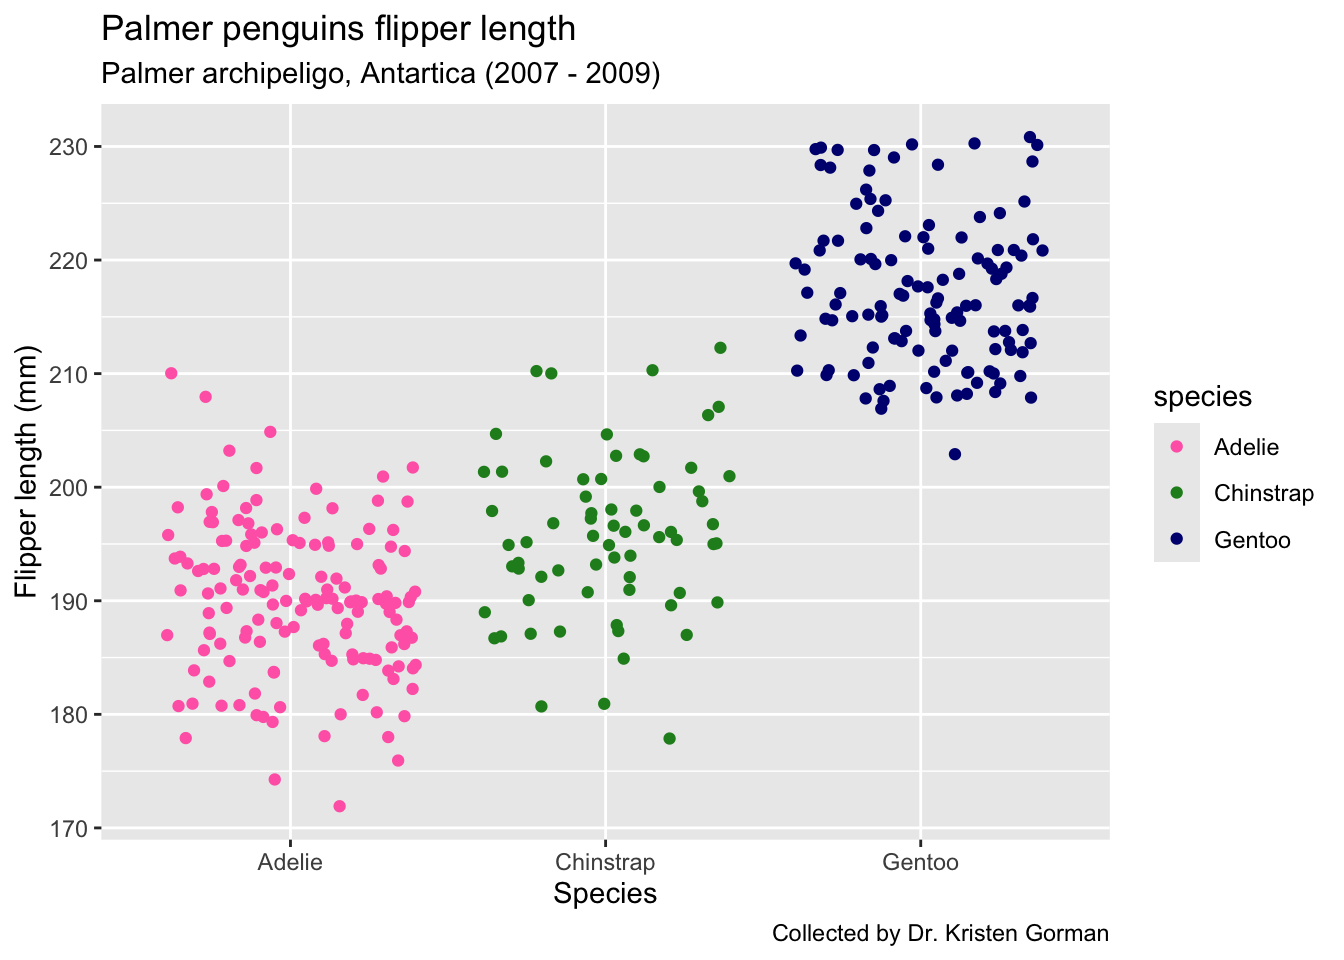
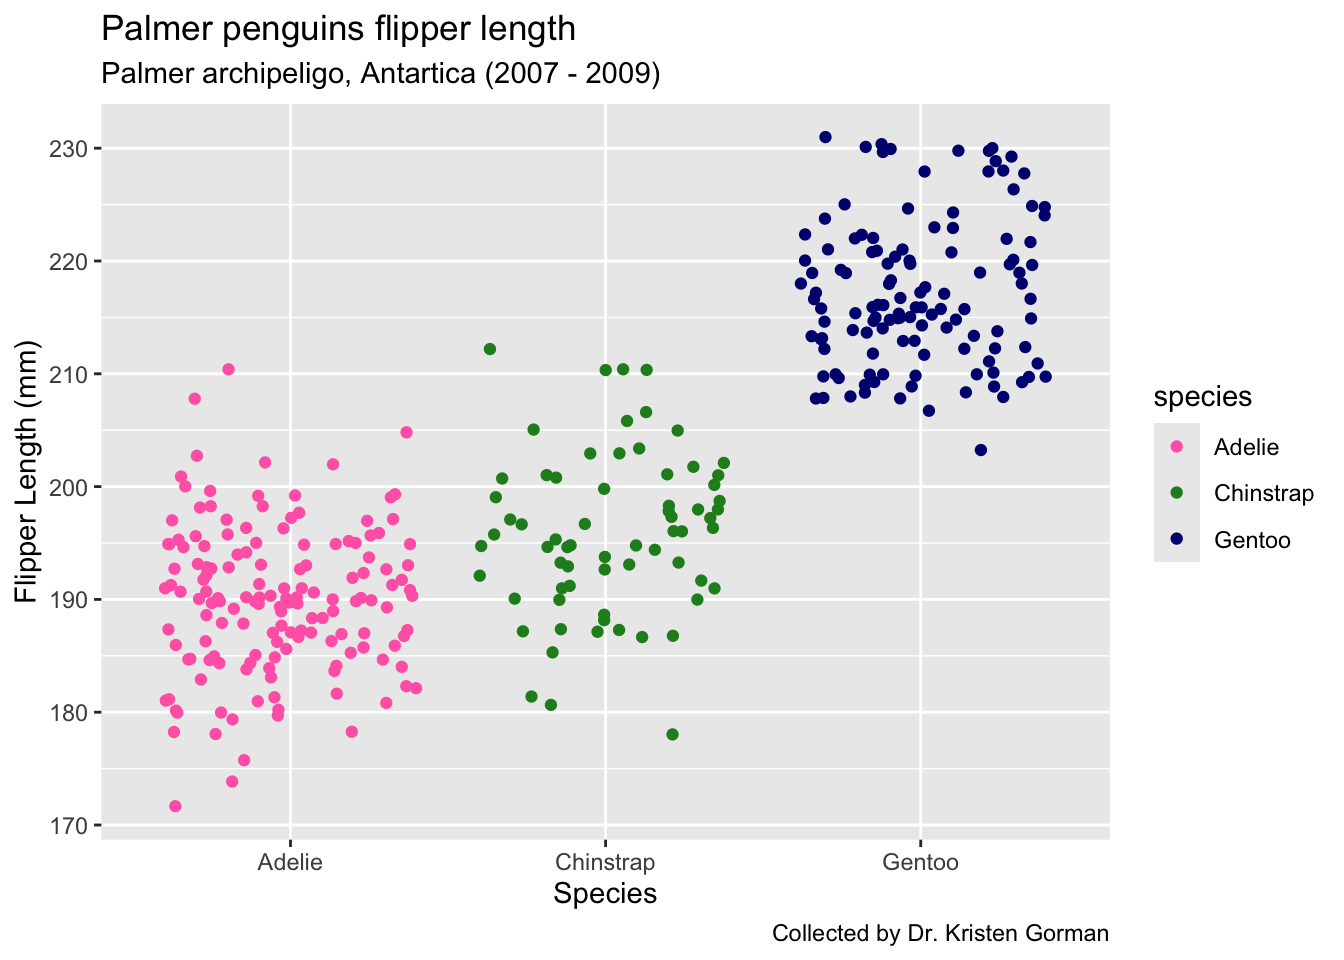
small changes 2

diff --git a/eds212_day2_activities.html b/eds212_day2_activities.html
@@ -145,8 +145,8 @@ Attaching package: 'palmerpenguins'</code></pre>
 <span id="cb8-4"><a href="#cb8-4" aria-hidden="true" tabindex="-1"></a><span class="fu">ggplot</span>( <span class="at">data =</span> penguins, <span class="fu">aes</span>(<span class="at">x =</span> bill_length_mm, <span class="at">y =</span> bill_depth_mm)) <span class="sc">+</span></span>
 <span id="cb8-5"><a href="#cb8-5" aria-hidden="true" tabindex="-1"></a>  <span class="fu">geom_point</span>(<span class="fu">aes</span>(<span class="at">color =</span> species)) <span class="sc">+</span></span>
 <span id="cb8-6"><a href="#cb8-6" aria-hidden="true" tabindex="-1"></a>  <span class="fu">scale_color_manual</span>(<span class="at">values =</span> <span class="fu">c</span>(<span class="st">"hotpink"</span>, <span class="st">"forestgreen"</span>, <span class="st">"navy"</span>)) <span class="sc">+</span></span>
-<span id="cb8-7"><a href="#cb8-7" aria-hidden="true" tabindex="-1"></a>  <span class="fu">labs</span>(<span class="at">x =</span> <span class="st">"Bill length (mm)"</span>,</span>
-<span id="cb8-8"><a href="#cb8-8" aria-hidden="true" tabindex="-1"></a>       <span class="at">y =</span> <span class="st">"Bill depth (mm)"</span>,</span>
+<span id="cb8-7"><a href="#cb8-7" aria-hidden="true" tabindex="-1"></a>  <span class="fu">labs</span>(<span class="at">x =</span> <span class="st">"Bill Length (mm)"</span>,</span>
+<span id="cb8-8"><a href="#cb8-8" aria-hidden="true" tabindex="-1"></a>       <span class="at">y =</span> <span class="st">"Bill Depth (mm)"</span>,</span>
 <span id="cb8-9"><a href="#cb8-9" aria-hidden="true" tabindex="-1"></a>       <span class="at">title =</span> <span class="st">"Palmer penguins bill depth and length"</span>,</span>
 <span id="cb8-10"><a href="#cb8-10" aria-hidden="true" tabindex="-1"></a>       <span class="at">subtitle =</span> <span class="st">"Palmer archipeligo, Antartica (2007 - 2009)"</span>,</span>
 <span id="cb8-11"><a href="#cb8-11" aria-hidden="true" tabindex="-1"></a>       <span class="at">caption =</span> <span class="st">"Collected by Dr. Kristen Gorman"</span>)</span></code><button title="Copy to Clipboard" class="code-copy-button"><i class="bi"></i></button></pre></div>
@@ -170,7 +170,7 @@ Attaching package: 'palmerpenguins'</code></pre>
 <span id="cb10-5"><a href="#cb10-5" aria-hidden="true" tabindex="-1"></a>  <span class="fu">geom_jitter</span>(<span class="fu">aes</span>(<span class="at">color =</span> species)) <span class="sc">+</span></span>
 <span id="cb10-6"><a href="#cb10-6" aria-hidden="true" tabindex="-1"></a>  <span class="fu">scale_color_manual</span>(<span class="at">values =</span> <span class="fu">c</span>(<span class="st">"hotpink"</span>, <span class="st">"forestgreen"</span>, <span class="st">"navy"</span>)) <span class="sc">+</span></span>
 <span id="cb10-7"><a href="#cb10-7" aria-hidden="true" tabindex="-1"></a>  <span class="fu">labs</span>(<span class="at">x =</span> <span class="st">"Species"</span>,</span>
-<span id="cb10-8"><a href="#cb10-8" aria-hidden="true" tabindex="-1"></a>       <span class="at">y =</span> <span class="st">"Flipper length (mm)"</span>,</span>
+<span id="cb10-8"><a href="#cb10-8" aria-hidden="true" tabindex="-1"></a>       <span class="at">y =</span> <span class="st">"Flipper Length (mm)"</span>,</span>
 <span id="cb10-9"><a href="#cb10-9" aria-hidden="true" tabindex="-1"></a>       <span class="at">title =</span> <span class="st">"Palmer penguins flipper length"</span>,</span>
 <span id="cb10-10"><a href="#cb10-10" aria-hidden="true" tabindex="-1"></a>       <span class="at">subtitle =</span> <span class="st">"Palmer archipeligo, Antartica (2007 - 2009)"</span>,</span>
 <span id="cb10-11"><a href="#cb10-11" aria-hidden="true" tabindex="-1"></a>       <span class="at">caption =</span> <span class="st">"Collected by Dr. Kristen Gorman"</span>)</span></code><button title="Copy to Clipboard" class="code-copy-button"><i class="bi"></i></button></pre></div>
